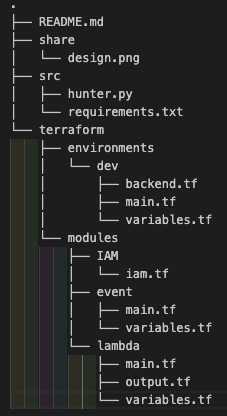
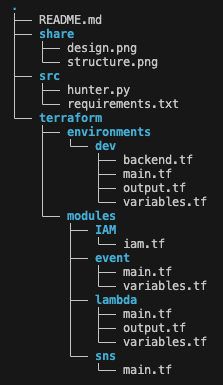
Prod ready commit

Changed region(s): [[0.0269, 0.0, 0.9417, 0.9974], [0.861, 0.9351, 0.9417, 0.9662], [0.861, 0.7169, 0.9417, 0.7481]]

diff --git a/README.md b/README.md
@@ -1,31 +1,41 @@
-[![Deploy Status](https://github.com/iEric0228/finops-zombie-hunter/workflows/☁%20Cloud%20Resume%20CI/CD/badge.svg)](https://github.com/iEric0228/finops-zombie-hunter/actions)
+# FinOps Zombie Hunter
+
+[![Deploy Status](https://github.com/iEric0228/finops-zombie-hunter/actions/workflows/deploy.yml/badge.svg)](https://github.com/iEric0228/finops-zombie-hunter/actions/workflows/deploy.yml)
 [![AWS](https://img.shields.io/badge/AWS-FF9900?style=flat-square&logo=amazon-aws&logoColor=white)](https://aws.amazon.com/)
 [![Terraform](https://img.shields.io/badge/Terraform-623CE4?style=flat-square&logo=terraform&logoColor=white)](https://terraform.io/)
-[![Infrastructure](https://img.shields.io/badge/Infrastructure-as%20Code-blue?style=flat-square)]()
+[![Infrastructure](https://img.shields.io/badge/Infrastructure-as%20Code-blue?style=flat-square)](https://terraform.io/)
 
-# FinOps Zombie Hunter
-**An automated AWS cost-optimization engine that identifies and cleans up unattached resources**
+---
+
+## Project Overview
+
+An automated AWS cost-optimization engine that identifies and cleans up unattached resources.
 
 ---
 
 ## The Business Problem
+
 Cloud waste costs companies billions. Developers often delete EC2 instances but forget to delete the associated EBS, NAT gateway, RDS Database, Elastic IPs leading to "Zombie" resources that continue to bill the company every month.
 
-**This project automates the identification and (optional) deletion of these resources, providing clear visibility into monthly cost savings.**
+This project automates the identification and (optional) deletion of these resources, providing clear visibility into monthly cost savings.
 
 ## Tech Stack
+
 - **Cloud:** AWS (Lambda, EventBridge, CloudWatch)
 - **IaC:** Terraform (S3 Backend + DynamoDB State Locking)
 - **Logic:** Python 3.12 (Boto3 SDK, OS)
 - **CI/CD:** GitHub Actions (OIDC Authentication)
 
 ## File Structure
+
 ![Alt Text](./share/structure.png)
 
 ## Architecture Design
+
 ![Alt Text](./share/design.png)
 
 The system follows a modular, serverless architecture:
+
 1. **Trigger:** EventBridge Rule configured with `cron(0 0 ? * SUN *)`.
 2. **Compute:** AWS Lambda running Python 3.12, modularized to scan multiple services.
 3. **Cross-Region Logic:** The script dynamically fetches all enabled AWS regions and performs a local audit in each.
@@ -33,6 +43,7 @@ The system follows a modular, serverless architecture:
 5. **State Management:** Terraform Remote State is persisted in S3 with DynamoDB for state locking to ensure CI/CD integrity.
 
 ## Best Practices
+
 - **Modular IaC:** Infrastructure is split into reusable modules (`lambda`, `events`, `iam`), allowing for independent scaling and testing.
 - **Identity Federation (OIDC):** Eliminated static AWS credentials by using GitHub Actions as a trusted OIDC identity provider.
 - **Shift-Left Security:** Integrated `tfsec` and `flake8` into the CI pipeline to catch security misconfigurations and code smells before deployment.
@@ -40,6 +51,7 @@ The system follows a modular, serverless architecture:
 - **Atomic Refactoring:** Used Terraform `moved` blocks to transition from a monolithic to a modular structure without resource destruction.
 
 ## Sample Execution Log
+
 ```json
 {
   "timestamp": "2024-01-15T00:00:00Z",
@@ -57,44 +69,47 @@ The system follows a modular, serverless architecture:
 ## Getting Started
 
 ### Prerequisites
+
 - AWS Account with appropriate IAM permissions
 - Terraform >= 1.0
 - Python 3.12+
 - GitHub account for CI/CD
 
 ### Installation
+
 1. Clone the repository:
-```bash
+
+   ```bash
    git clone https://github.com/iEric0228/finops-zombie-hunter.git
    cd finops-zombie-hunter
-```
+   ```
 
 2. Configure AWS credentials or set up OIDC authentication
 
 3. Initialize Terraform:
-```bash
+
+   ```bash
    terraform init
-```
+   ```
 
 4. Deploy the infrastructure:
-```bash
+
+   ```bash
    terraform apply
-```
-   
+   ```
 
-### **The Final Step: The Launch**
+### The Final Step: The Launch
 
-1.  **Run:** `terraform apply`
-2.  **Type:** `yes` (Only when you are sure!)
-3.  **Verify:** Log into your AWS Console -> Lambda. You should see "FinOps-Zombie-Hunter" there.
-4.  **Test:** Create a small (1GB) EBS volume in the AWS Console. Don't attach it to anything. Wait 2 minutes, then manually "Test" your Lambda function. 
+1. **Run:** `terraform apply`
+2. **Type:** `yes` (Only when you are sure!)
+3. **Verify:** Log into your AWS Console -> Lambda. You should see "FinOps-Zombie-Hunter" there.
+4. **Test:** Create a small (1GB) EBS volume in the AWS Console. Don't attach it to anything. Wait 2 minutes, then manually "Test" your Lambda function.
 
 ## Author
 
-**Eric Chiu**
+### Eric Chiu
 
 - Portfolio: [Deploy on Demand](https://github.com/iEric0228/cloud-resume)
 - LinkedIn: [Eric Chiu](https://www.linkedin.com/in/eric-chiu-a610553a3/)
 - GitHub: [@iEric0228](https://github.com/iEric0228)
-- Email: ericchiu0228@gmail.com
-
+- Email: [ericchiu0228@gmail.com](mailto:ericchiu0228@gmail.com)
